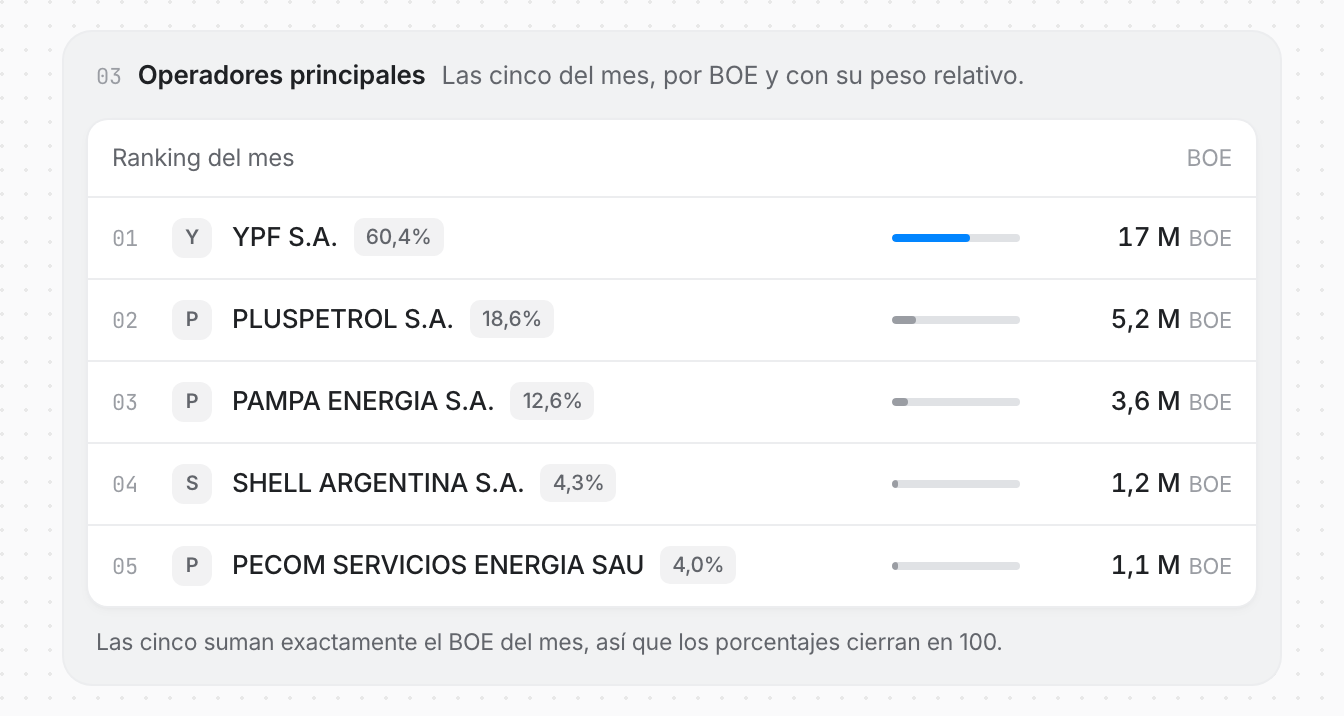
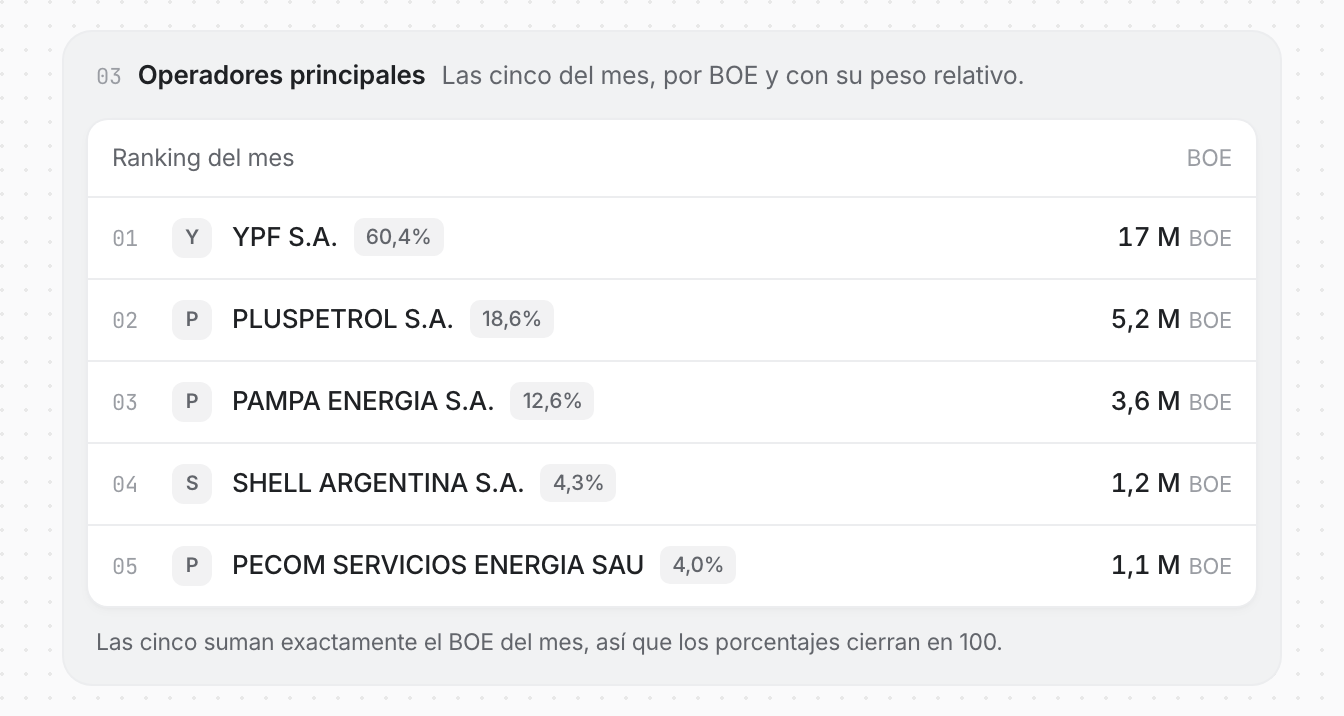
v2(dashboard): sacar las barras de la sección 03
Pedido de Mariano: confundían. El badge ya dice el porcentaje y la cifra dice
el BOE, así que la barra repetía el badge en otra forma.

pct pasa a opcional en FilaRanking; sin él no se dibuja barra. El resto de los
usos —provincias, indicadores— no cambia.

diff --git a/apps/ui-prototype/src/app/v2/_ui/kit.tsx b/apps/ui-prototype/src/app/v2/_ui/kit.tsx
@@ -141,8 +141,8 @@ export function FilaRanking({
   n: number
   nombre: string
   valor: string
-  /** 0..1 — proporción sobre el máximo de la lista */
-  pct: number
+  /** 0..1 — proporción a dibujar. Sin valor, no hay barra. */
+  pct?: number
   lider?: boolean
   nota?: string
   /** pastilla con la inicial, al principio de la fila */
@@ -199,13 +199,15 @@ export function FilaRanking({
         {tag && tagColor && <Tag color={tagColor}>{tag}</Tag>}
         {nota && <span className="s-chip s-chip--neutro s-chip--mini shrink-0">{nota}</span>}
       </span>
-      <span
-        className={`s-barra hidden w-16 shrink-0 sm:block ${lider && !color ? 's-barra--lider' : ''}`}
-        aria-hidden
-        style={color ? { ['--barra-color' as string]: color } : undefined}
-      >
-        <i style={{ width: `${Math.max(3, pct * 100)}%` }} />
-      </span>
+      {pct !== undefined && (
+        <span
+          className={`s-barra hidden w-16 shrink-0 sm:block ${lider && !color ? 's-barra--lider' : ''}`}
+          aria-hidden
+          style={color ? { ['--barra-color' as string]: color } : undefined}
+        >
+          <i style={{ width: `${Math.max(3, pct * 100)}%` }} />
+        </span>
+      )}
       <span className="flex shrink-0 items-baseline justify-end gap-1 sm:w-24">
         <span className="s-num w-10 text-right text-[13px] font-medium sm:w-auto">{valor}</span>
         {unidad && (

diff --git a/apps/ui-prototype/src/app/v2/page.tsx b/apps/ui-prototype/src/app/v2/page.tsx
@@ -237,22 +237,12 @@ export default function V2Inicio() {
       >
         <Card>
           <CardHead titulo="Ranking del mes" nota="BOE" />
-          {/* La barra mide lo MISMO que el badge de la fila: la parte del BOE
-              del mes. Estaba contra el líder, así que Pluspetrol se dibujaba al
-              31% mientras su badge decía 18,6% —dos números distintos para la
-              misma fila— y la de YPF salía llena, como si fuera el total y no
-              el 60,4%.
-
-              Contra el máximo tiene sentido cuando las filas NO suman un total.
-              Acá las cinco suman exactamente el BOE del mes, así que cada barra
-              es una parte de algo y tiene que dibujarse como tal. */}
           {TOP_OPERATORS.map((op, i) => (
             <FilaRanking
               key={op.slug}
               n={i + 1}
               nombre={op.name}
               valor={formatCompactAR(op.boeMonth)}
-              pct={op.boeMonth / HEADLINE.boeMonth}
               lider={i === 0}
               marca
               unidad="BOE"
